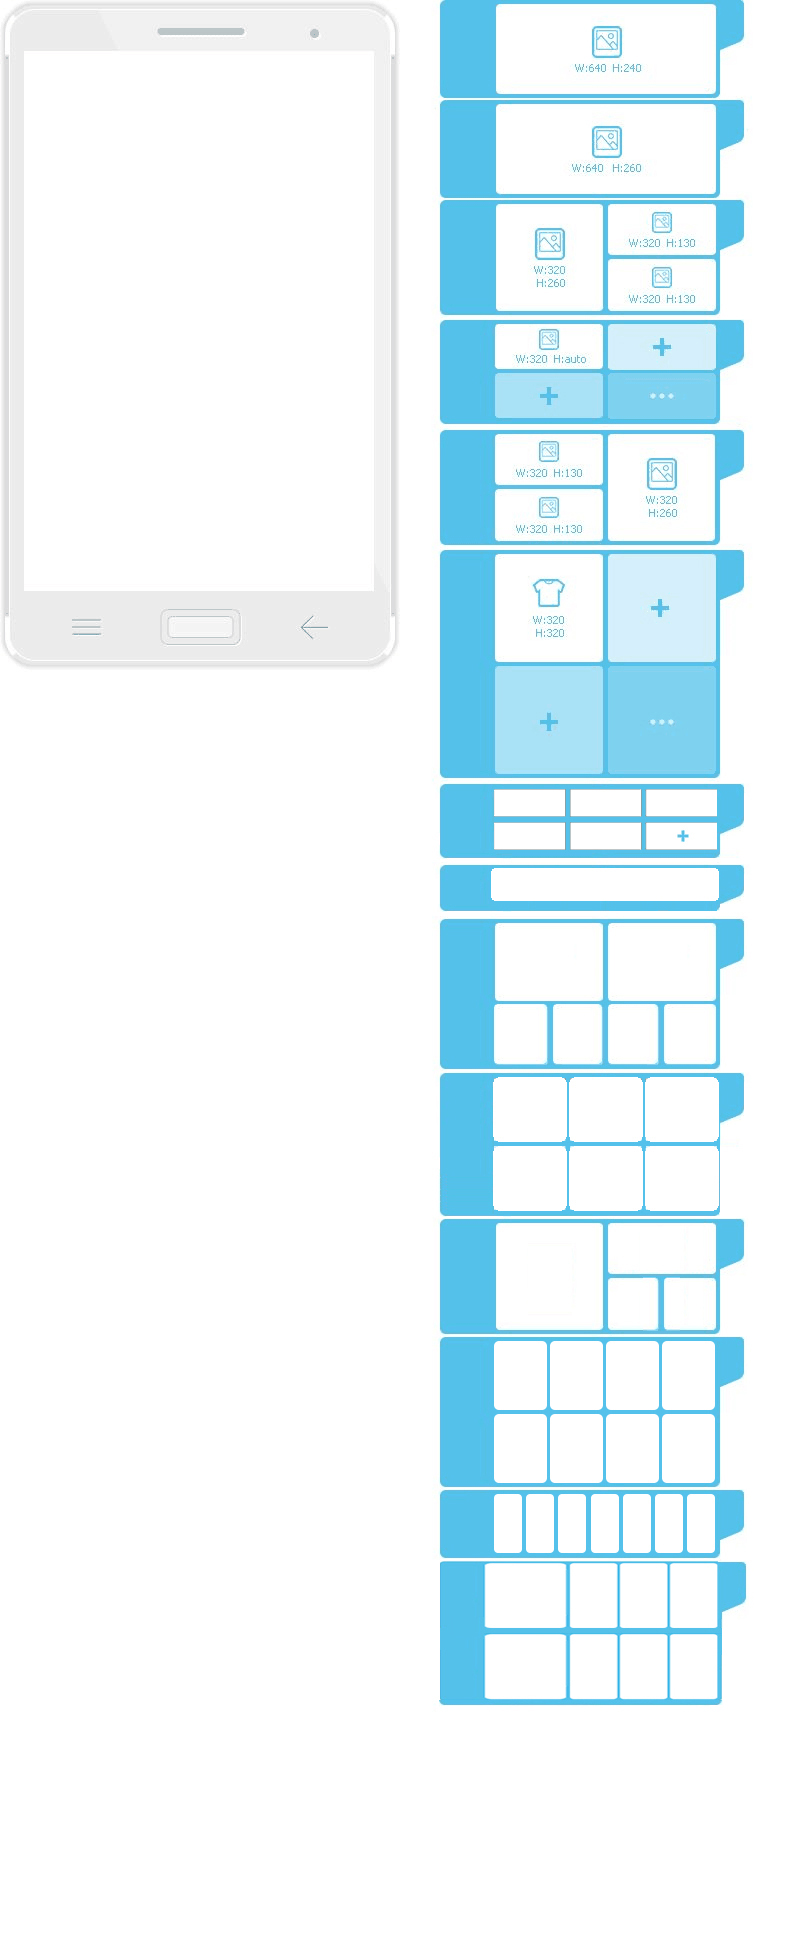
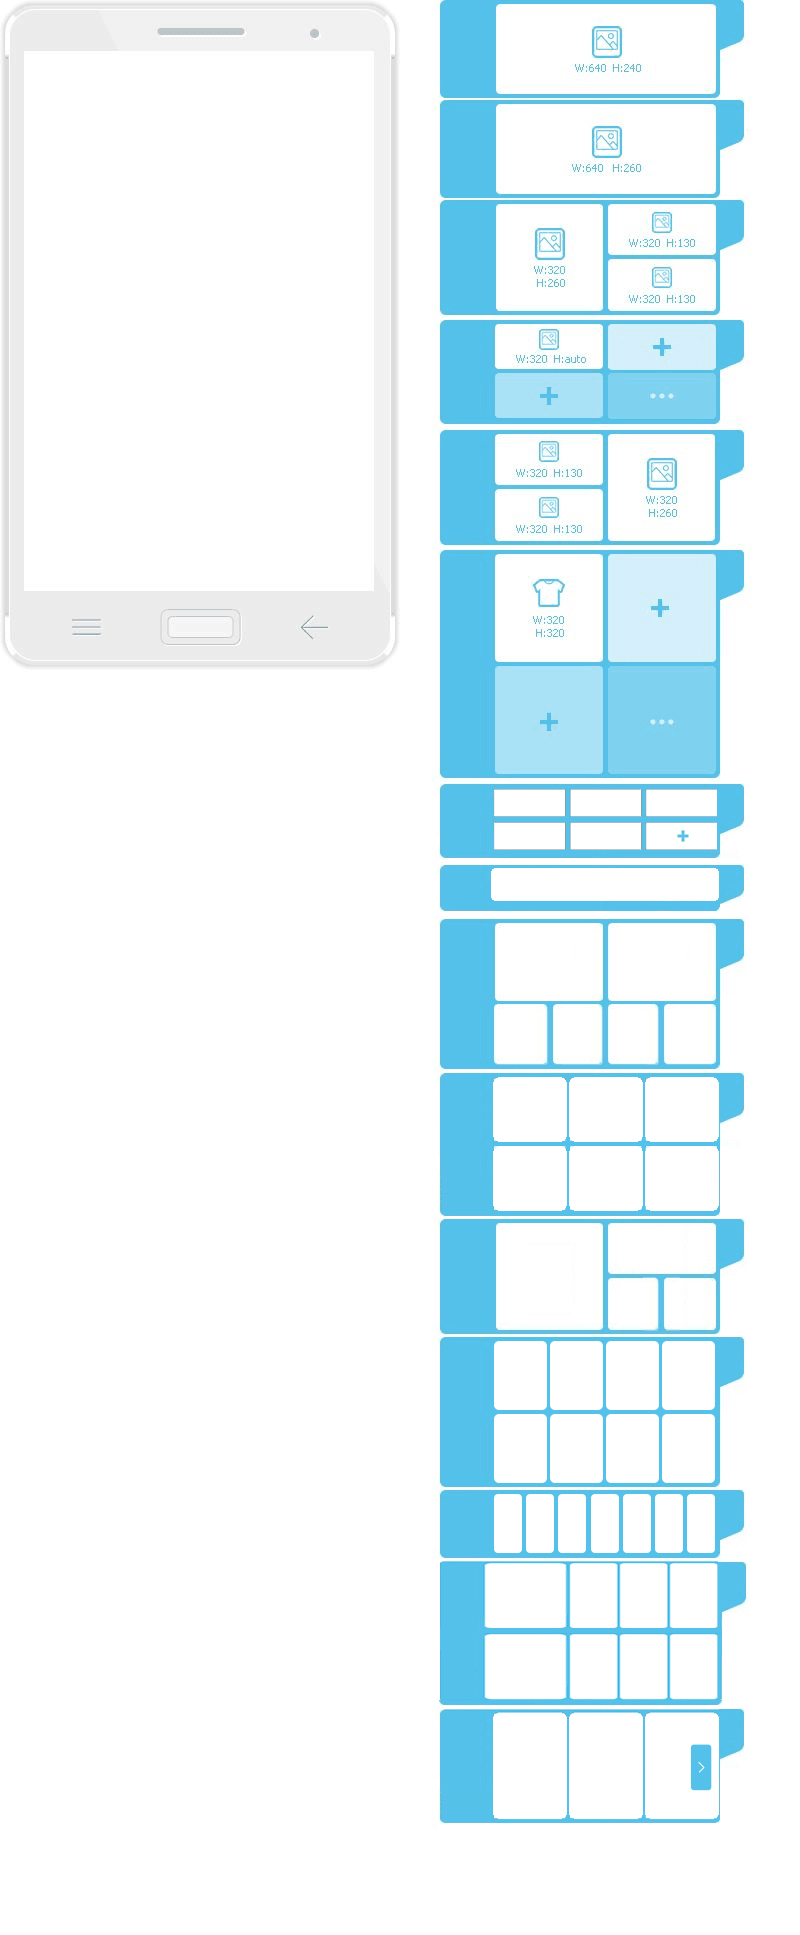
修改首页模块

diff --git a/admin/templates/default/css/skin_0.css b/admin/templates/default/css/skin_0.css
@@ -1665,7 +1665,7 @@ td.trigger i:hover { color: #27A9E3;}
 .mb-special-layout .module-list .module_home11 { background-position: -440px -1488px; height: 70px;}
 .mb-special-layout .module-list .module_home12 { background-position: -440px -863px; height: 50px;}
 .mb-special-layout .module-list .module_home13 { background-position: -440px -1559px; height: 154px;}
-.mb-special-layout .module-list .module_home14 { background-position: -440px -1559px; height: 154px;}
+.mb-special-layout .module-list .module_home14 { background-position: -440px -1709px; height: 154px;}
 .mb-special-layout .module-list .module_goods { background-position: -440px -549px; height: 234px;}
 .mb-special-layout .module-list .module_goodsnew { background-position: -440px -674px; height: 98px;}
 .mb-special-layout .module-list .module_goodsnew1 { background-position: -440px -671px; height: 65px;}
